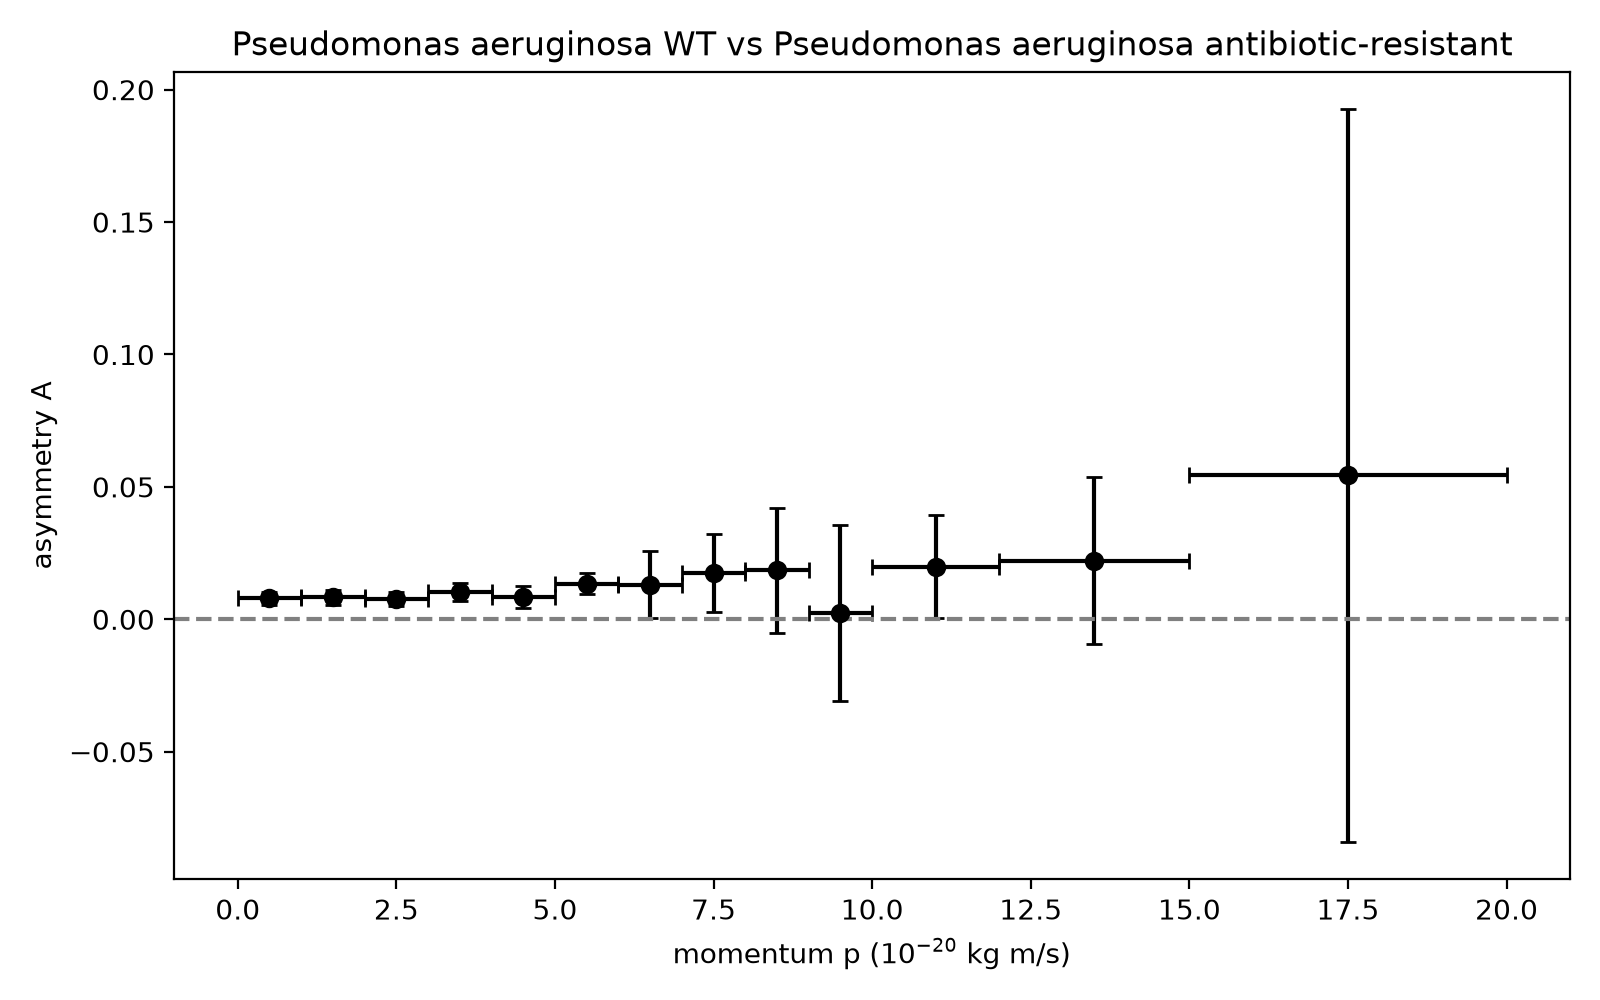
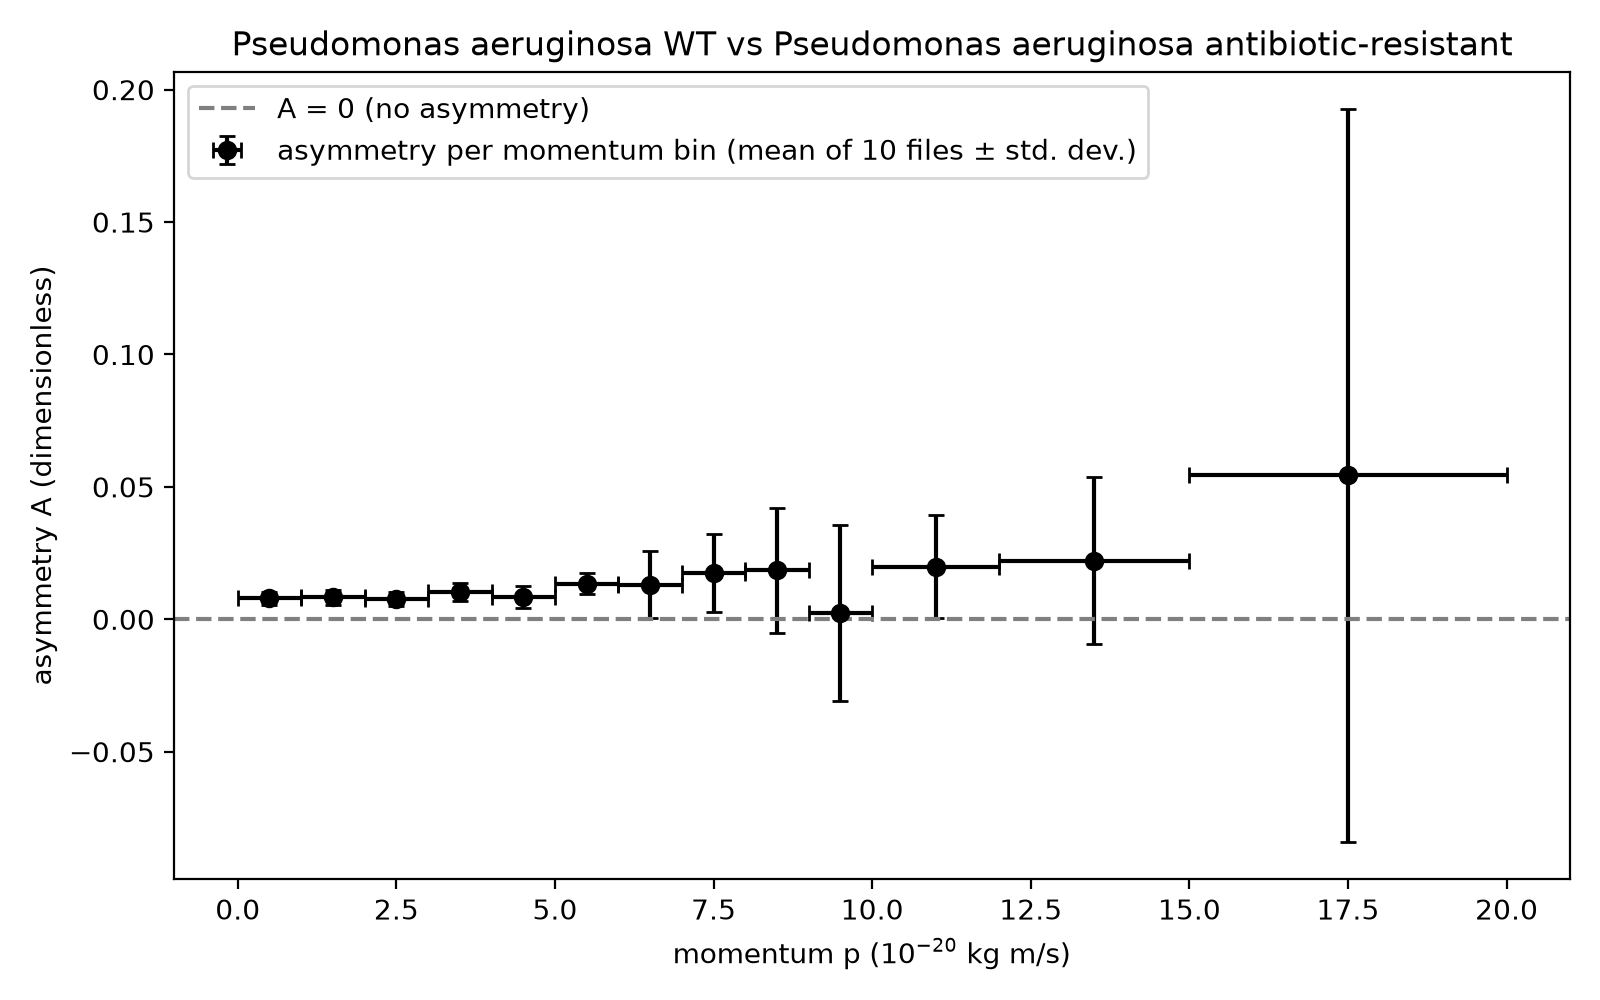
updated README.md with the asymmetries of all the cell strains

Changed region(s): [[0.125, 0.093, 0.7188, 0.186], [0.0, 0.279, 0.0312, 0.682], [0.6875, 0.062, 0.7188, 0.093]]

diff --git a/asymmetry_momentum.py b/asymmetry_momentum.py
@@ -8,14 +8,14 @@ from main import calculate_momentum, analyse_subsamples, calculate_mean_and_unce
 
 # the pair that is analysed (the WT has the positive ID, the mutant has the negative ID)
 # to analyse the other pair, change these four lines (3334, -3334 and the names) and the bin edges below
-WT_ID = 3334
-MUTANT_ID = -3334
-WT_NAME = "Salmonella enterica"
-MUTANT_NAME = "Salmonella mutant"
+WT_ID = 2212
+MUTANT_ID = -2212
+WT_NAME = "Pseudomonas aeruginosa WT"
+MUTANT_NAME = "Pseudomonas aeruginosa antibiotic-resistant"
 
 # edges of the momentum bins (units = 10^-20 kg m/s): the first bin is 0 to 1, the second is 1 to 2, and so on
 # 3334 / -3334 has very few bacteria, so for that pair use wider bins, for example [0, 2, 4, 6, 8, 12, 20]
-BIN_EDGES = [0, 2, 4, 6, 8, 12, 20]
+BIN_EDGES = [0, 1, 2, 3, 4, 5, 6, 7, 8, 9, 10, 12, 15, 20]
 NUMBER_OF_FILES = 10 # output-Set1.txt to output-Set10.txt
 
 # returns the number of the bin the momentum falls in (0 is the first bin), or None if it falls outside all the bins
@@ -159,10 +159,12 @@ def main():
     # plot asymmetry vs momentum, the vertical bars are the statistical uncertainty, 
     # and the horizontal bars are the width of the bin
     plt.figure(figsize=(8, 5))
-    plt.errorbar(centres, means, xerr=half_widths, yerr=uncertainties, fmt="o", color="black", capsize=3)
-    plt.axhline(0, linestyle="--", color="grey") # A = 0 means no asymmetry
+    plt.errorbar(centres, means, xerr=half_widths, yerr=uncertainties, fmt="o", color="black", capsize=3,
+             label="asymmetry per momentum bin (mean of 10 files ± std. dev.)")
+    plt.axhline(0, linestyle="--", color="grey", label="A = 0 (no asymmetry)")
+    plt.ylabel("asymmetry A (dimensionless)")
     plt.xlabel("momentum p ($10^{-20}$ kg m/s)")
-    plt.ylabel("asymmetry A")
+    plt.legend()
     plt.title(f"{WT_NAME} vs {MUTANT_NAME}")
     plt.tight_layout()
     plt.savefig(f"asymmetry_{WT_ID}.png", dpi=200) # saved so it can be used in the README and the presentation

diff --git a/asymmetry_all_pairs.py b/asymmetry_all_pairs.py
@@ -1,0 +1,44 @@
+import statistics # for the mean and the standard deviation
+# retrieve from main.py the bacterial IDs and the function that analyses every 
+# file separately
+from main import get_bacterial_ids, analyse_subsamples
+# retrieve from asymmetry_momentum.py the asymmetry function
+from asymmetry_momentum import calculate_asymmetry
+
+# total asymmetry of every WT / mutant pair, by using the sub-sampling method
+# for that pair, A is calculated for each file, and the result is the mean of the 
+# 10 files and the uncertainty is the standard deviation
+
+NUMBER_OF_FILES = 10 # output-Set1.txt to output-Set10.txt
+
+def main():
+    ids_of_interest = get_bacterial_ids()
+
+    filepaths = []
+    for i in range(1, NUMBER_OF_FILES + 1):
+        filepaths.append(f"data/output-Set{i}.txt")
+
+    # every file is read once, giving the average count per event of all 12 IDs in every file
+    subsample_averages = analyse_subsamples(filepaths, ids_of_interest)
+
+    print("\n| Pair | Asymmetry A | Significance |")
+    print("| --- | --- | --- |")
+    for wt_id, wt_name in ids_of_interest.items():
+        if wt_id > 0: # only the WT IDs
+            mutant_id = -wt_id
+
+        # asymmetry of this pair in every file
+            asymmetries = []
+            for i in range(NUMBER_OF_FILES):
+                asymmetry = calculate_asymmetry(subsample_averages[wt_id][i], subsample_averages[mutant_id][i])
+                if asymmetry is not None: # a file without any bacteria of this pair is skipped
+                    asymmetries.append(asymmetry)
+
+        # mean and standard deviation of the files (sub-sampling), and the significance = |A| / uncertainty
+        mean = statistics.mean(asymmetries)
+        uncertainty = statistics.stdev(asymmetries)
+        significance = abs(mean) / uncertainty
+        print(f"| {wt_name} ({wt_id} / {mutant_id}) | {mean:.6f} \u00b1 {uncertainty:.6f} (stat) | {significance:.1f} \u03c3 |")
+
+if __name__ == "__main__":
+    main()
